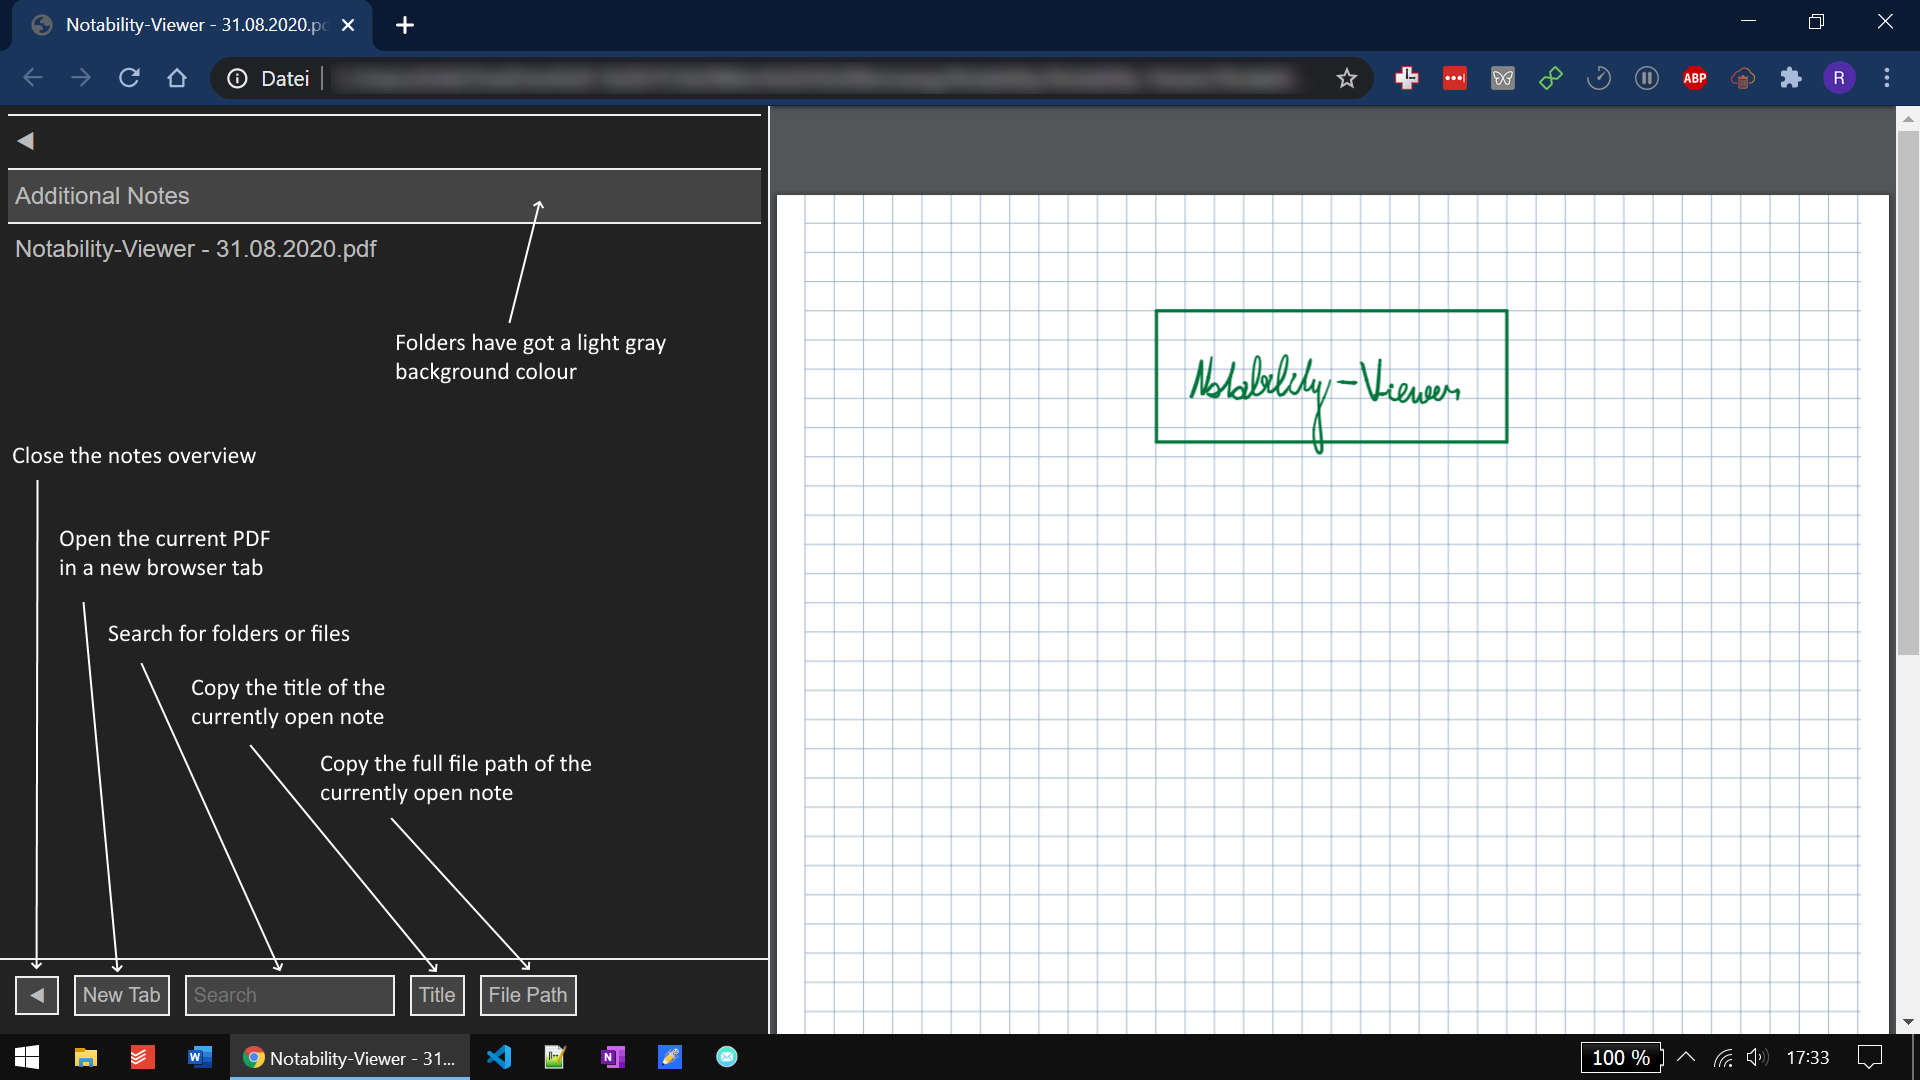
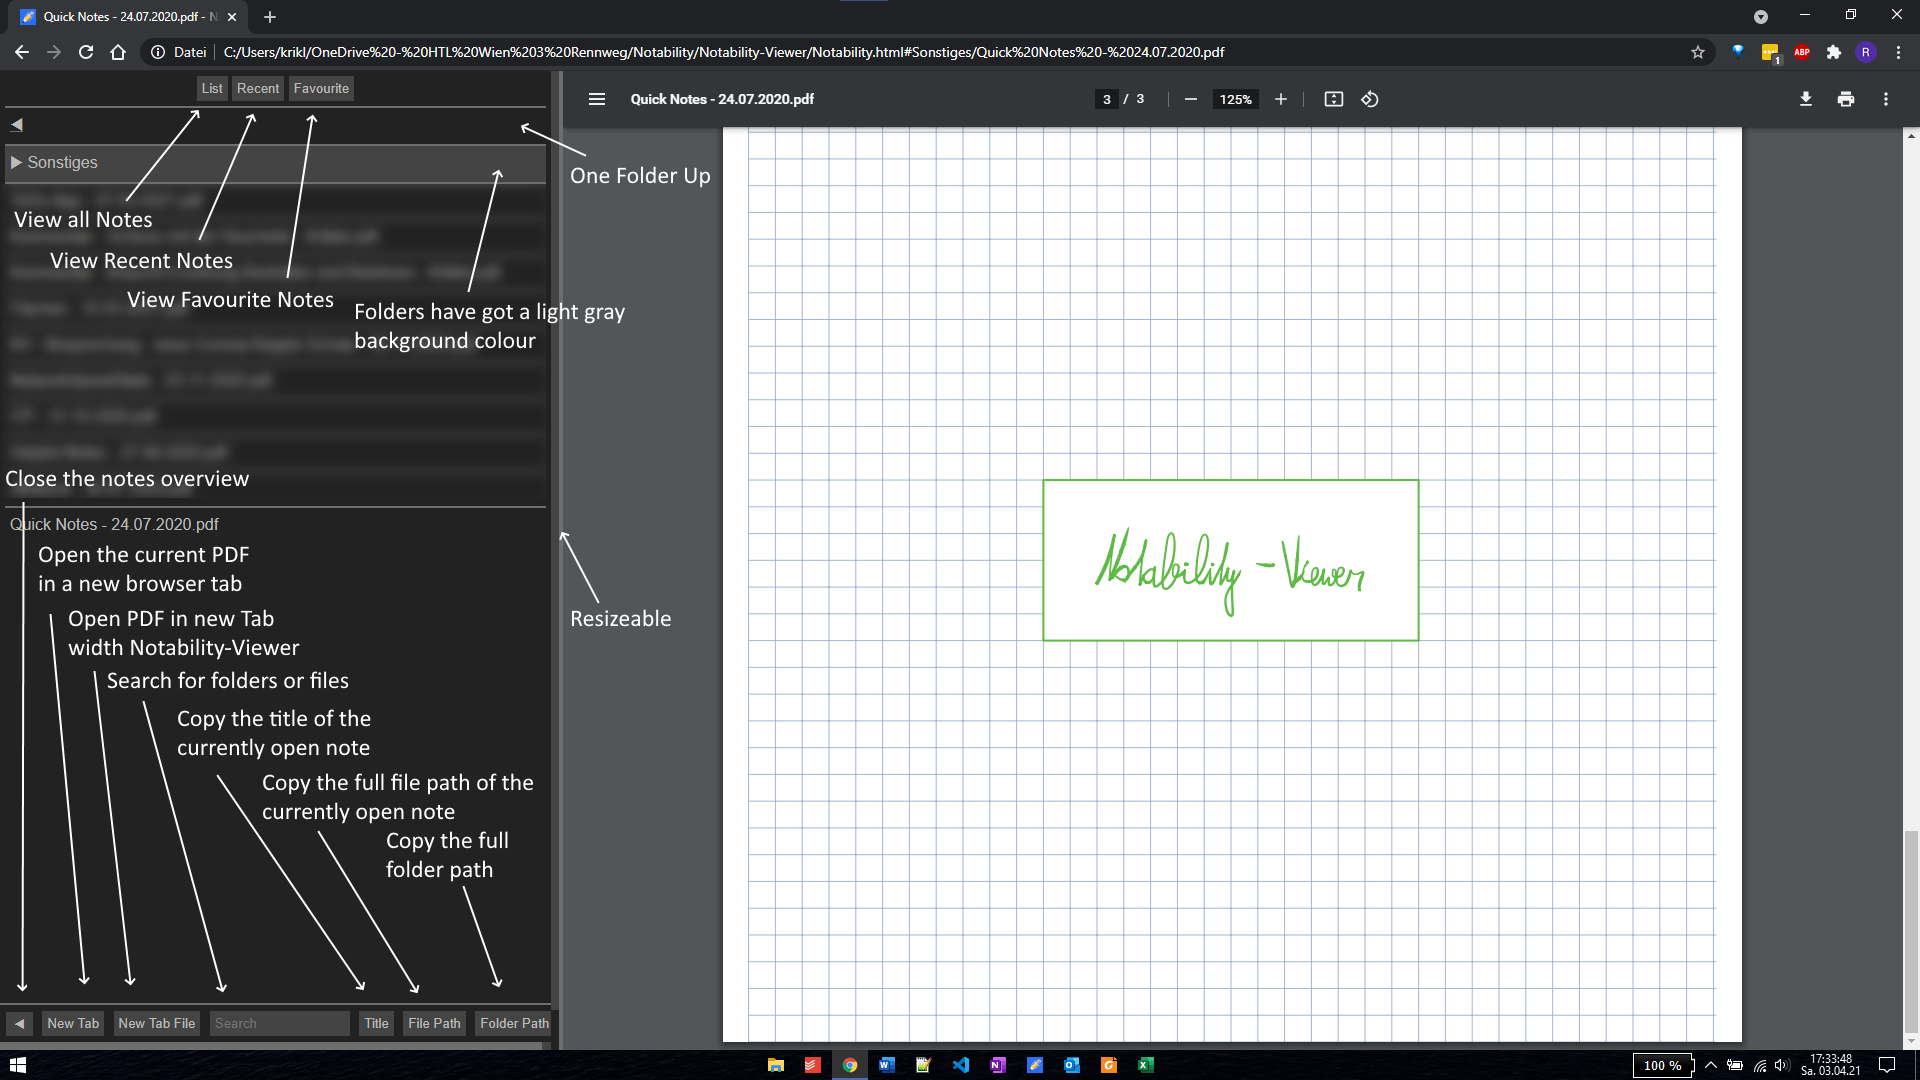
Updated Readme & Screenshot

diff --git a/README.md b/README.md
@@ -4,6 +4,27 @@ Notability Note Viewer for the Backup PDFs inside of a file system (e.g. with On
 ![Overview of the Notability-Viewer](https://github.com/richardkrikler/Notability-Viewer/blob/master/images/Notability-Viewer.png?raw=true)
 
 
+## Features
+ - [x] Resizable menu (position stored in local storage)
+ - [x] Folder & File name in URL (Example: "*/Notability-Viewer/Notability.html#Sonstiges/Quick%20Notes%20-%2024.07.2020.pdf")
+ - Notes List
+   - [x] List all Notes (PDF) from the Backup-Folder
+   - [x] Sort Folders alphabetically
+   - [x] Sort Files via the date at the end (if possible)
+   - [x] Ctrl+Click -> Open File in new Tab
+ - Recent Notes
+   - [x] Display 15 recently viewed Notes (Newest first; `<li>` elements stored in local storage)
+ - Favourite Notes
+   - [ ] Display your favourite Notes (marked with star)
+ - Functions
+   - [x] Open / Close the menu
+   - [x] New Tab: Open the File in a new Tab with Notability-Viewer
+   - [x] New Tab File: Only open the File in a new Tab
+   - [ ] Search-Box
+   - [x] Title: Copy the Filename
+   - [x] File Path: Copy the complete File-Path
+   - [x] Folder Path: Copy the complete Folder-Path
+
 ## Installation
 1. Clone the repository into the Notability Backup-Folder
 2. Start "Notability-Viewer.py": the file "Notability.html" will be generated and automatically opendend in the preferred browser
